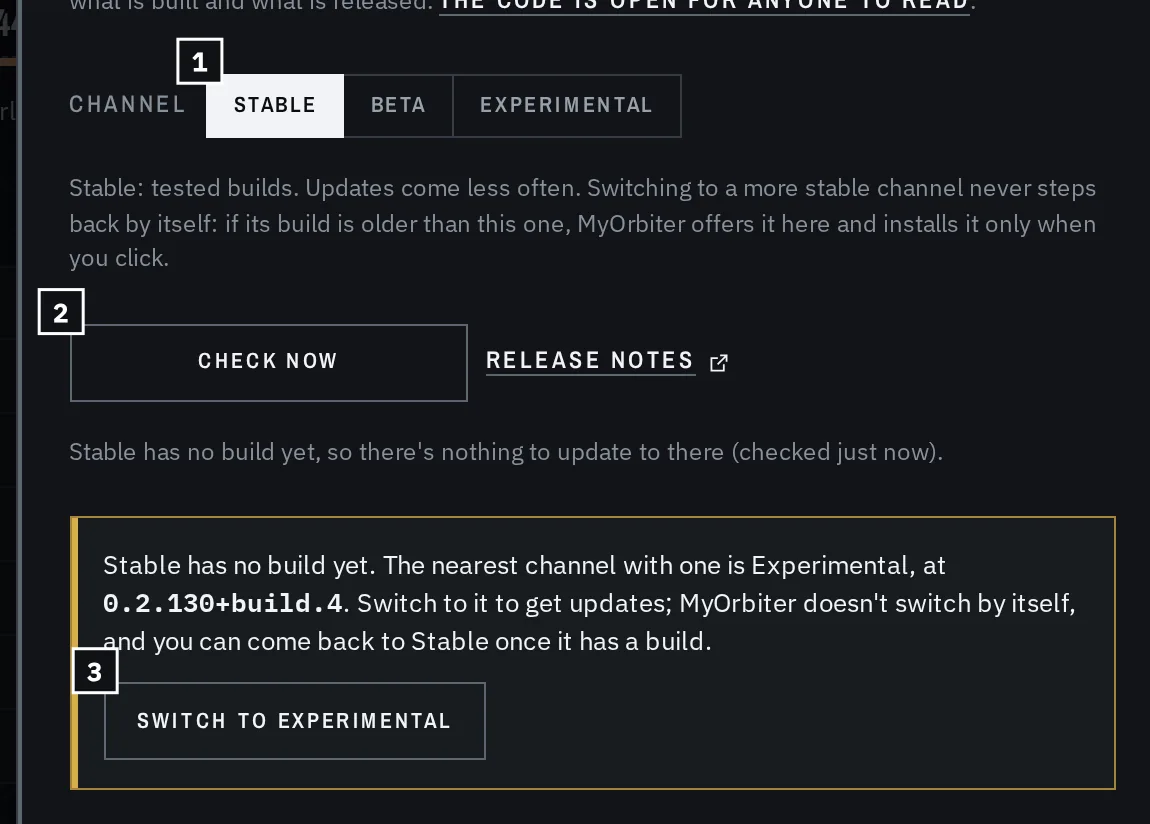
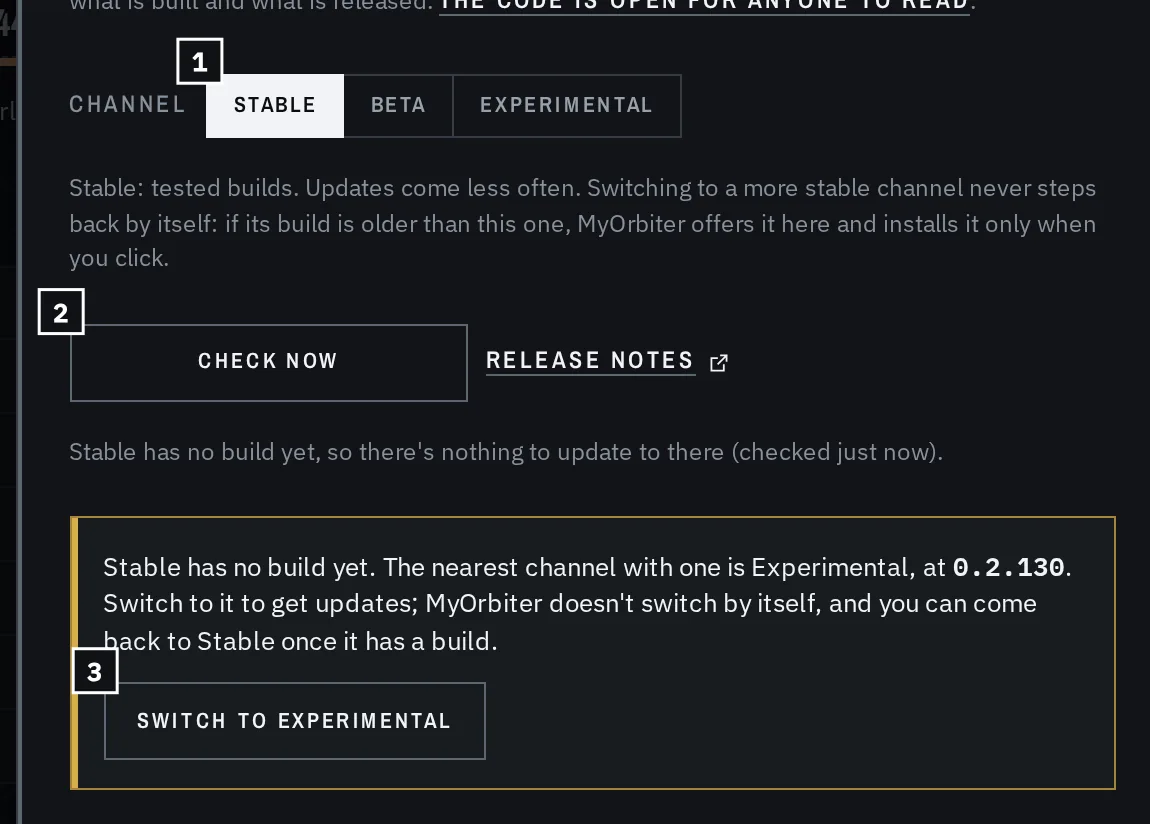
Keep a damaged settings file's channel; count the first start's waits from its page
From a review of the branch:

- A settings file that is damaged and moved aside no longer counts as a new
  install, so it can't move the player to their build's channel. The desktop
  app now says whether there was no file at all (`fresh`).
- A channel picked in Settings is the player's choice (`picked`), even the one
  already shown, so a new install's channel never settles over it.
- The first start's waits count from when its setup page comes up, not from
  MyOrbiter's start: time on the first question isn't TennoScope's.
- The read's wait counts from when the player is first seen signed in; a read
  MyOrbiter is still picking up says "loading it", and "couldn't load it" only
  past the limit. The start step's reason no longer says MyOrbiter started
  TennoScope (it may be set not to).
- The log's home folder is written as ~ in a file address too.

Changed region(s): [[0.0913, 0.6675, 0.9435, 0.7888]]

diff --git a/src/lib/core/firstStart.ts b/src/lib/core/firstStart.ts
@@ -119,7 +119,7 @@ export function firstStart(s: Signs): StepState {
   if (!st.running && !st.binary) return { step: "start", stage: "TennoScope wasn't found", waitingFor: null, stuck: true, reason: "MyOrbiter couldn't find TennoScope's program", todo: "Choose it in Settings, TennoScope, Program, or finish later and use MyOrbiter without your inventory.", actions: ["settings"], limit: null };
   if (!st.running) {
     const stuck = waited(s, s.since, LIMITS.start) || !!s.tsError;
-    return { step: "start", stage: stuck ? "TennoScope didn't start" : "Starting TennoScope", waitingFor: "TennoScope to start", stuck, reason: stuck ? (s.tsError ?? `it wasn't running ${LIMITS.start / 1000} s after MyOrbiter started it`) : null, todo: "Try again; if it keeps failing, its log (Settings, Logs) says why.", actions: ["retry", "settings"], limit: { since: s.since, ms: LIMITS.start } };
+    return { step: "start", stage: stuck ? "TennoScope didn't start" : "Starting TennoScope", waitingFor: "TennoScope to start", stuck, reason: stuck ? (s.tsError ?? `it still wasn't running after ${LIMITS.start / 1000} s`) : null, todo: "Try again; if it keeps failing, its log (Settings, Logs) says why.", actions: ["retry", "settings"], limit: { since: s.since, ms: LIMITS.start } };
   }
   const r = st.report;
   if (!r) {
@@ -151,11 +151,12 @@ export function firstStart(s: Signs): StepState {
   }
 
   // 4. The inventory read, and MyOrbiter picking it up.
-  const from = s.signedInSince ?? s.gameSince;
+  // From when the player was first seen signed in (App.svelte notes it as this step comes up).
+  const from = s.signedInSince ?? s.now;
   const read = r.mastery_rank != null || (r.health.game_reader?.state === "ready" && /synchroni[sz]ed/i.test(r.health.game_reader.message));
   const base = { step: "inventory" as const, limit: { since: from ?? s.since, ms: LIMITS.read } };
   if (trouble && refused(trouble.message)) return { ...base, stage: "Signed in, but the system won't let TennoScope read the game", waitingFor: null, stuck: true, reason: trouble.message, todo: s.ptraceScope ? "This system only lets a program read another one's memory if it started it. To allow it until you restart, run in a terminal: sudo sysctl kernel.yama.ptrace_scope=0. Then Try again." : "Check that TennoScope runs as the same user as the game, then Try again.", actions: ["retry"] };
-  if (read && s.pickup.error) return { ...base, stage: "Signed in, read by TennoScope, but MyOrbiter couldn't load it", waitingFor: "MyOrbiter to load what TennoScope read", stuck: waited(s, from, LIMITS.read), reason: s.pickup.error, todo: "Try again; if it stays, Report a bug: MyOrbiter's log says what was missing.", actions: ["retry"] };
+  if (read && s.pickup.error) return { ...base, stage: waited(s, from, LIMITS.read) ? "Signed in, read by TennoScope, but MyOrbiter couldn't load it" : "Signed in, read by TennoScope: loading it", waitingFor: "MyOrbiter to load what TennoScope read", stuck: waited(s, from, LIMITS.read), reason: s.pickup.error, todo: "Try again; if it stays, Report a bug: MyOrbiter's log says what was missing.", actions: ["retry"] };
   const stuck = waited(s, from, LIMITS.read) || (!!trouble && trouble.failed);
   const why = trouble ? `TennoScope: ${trouble.message}` : r.health.catalog?.state === "failed" ? `TennoScope has no item data: ${r.health.catalog.message}` : read ? "TennoScope read it, but MyOrbiter found nothing to load" : "TennoScope hasn't read it, and doesn't say why";
   return { ...base, stage: stuck ? "Signed in, but no inventory yet" : "Signed in: reading your inventory", waitingFor: "TennoScope to read your inventory", stuck, reason: stuck ? why : null, todo: stuck ? "Try again, and MyOrbiter asks TennoScope to read now." : "TennoScope reads it in a moment; this page turns into your collection by itself.", actions: ["retry"] };

diff --git a/src/lib/backend.ts b/src/lib/backend.ts
@@ -870,16 +870,19 @@ function adviceOf(raw: unknown, base: AdviceSettings): AdviceSettings {
 
 export async function loadSettings(): Promise<Settings> {
   let raw: Partial<Settings> | null = null;
+  /** No settings file at all: a new install. */
+  let fresh = false;
   if (inTauri) {
     // A file briefly held by something else (an antivirus, a backup): tried a few times. Still
     // unreadable, MyOrbiter runs on defaults but never saves over the file (see flushSettings).
     for (let i = 0; ; i++) {
       try {
-        const loaded = await invoke<{ settings: Partial<Settings> | null; page: number }>("load_settings");
+        const loaded = await invoke<{ settings: Partial<Settings> | null; page: number; fresh?: boolean }>("load_settings");
         // A reply without a page token can't be saved to: taken as unreadable, so nothing is
         // saved over the file.
         if (typeof loaded?.page !== "number" || !("settings" in loaded)) throw new Error("load_settings gave an unexpected reply");
         raw = loaded.settings;
+        fresh = loaded.fresh === true;
         savePage = loaded.page;
         break;
       } catch (e) {
@@ -892,7 +895,9 @@ export async function loadSettings(): Promise<Settings> {
     }
   } else {
     try {
-      raw = JSON.parse(localStorage.getItem("orbiter-settings") ?? "null");
+      const saved = localStorage.getItem("orbiter-settings");
+      fresh = saved == null;
+      raw = JSON.parse(saved ?? "null");
     } catch {
       raw = null;
     }
@@ -976,9 +981,10 @@ export async function loadSettings(): Promise<Settings> {
     buildsFromNox: raw?.buildsFromNox !== false,
     // Off unless switched on.
     recordTimings: raw?.recordTimings === true,
-    // Settings from before updates: Stable, never checked. A new install (no settings at all, and
-    // none that couldn't be read): the channel its build came from, once that's known (updates.svelte.ts).
-    updates: raw ? sanitizeUpdates(raw.updates) : loadFailed == null ? newInstallUpdates() : defaultUpdates(),
+    // Settings from before updates: Stable, never checked. A new install (no settings file at all;
+    // not a damaged one moved aside, nor one that couldn't be read): the channel its build came
+    // from, once that's known (updates.svelte.ts).
+    updates: raw ? sanitizeUpdates(raw.updates) : fresh ? newInstallUpdates() : defaultUpdates(),
   };
 }
 
@@ -1224,8 +1230,8 @@ const demoEmptyChannel = () => {
   }
 };
 const EMPTY_DEMO = {
-  info: { version: "0.2.130+build.4", install: { how: "appImage", path: "/opt/MyOrbiter.AppImage" } } as UpdateInfo,
-  check: (c: Channel): UpdateCheck => (c === "experimental" ? { state: "current", version: "0.2.130+build.4" } : { state: "empty", system: false }),
+  info: { version: "0.2.130", install: { how: "appImage", path: "/opt/MyOrbiter.AppImage" } } as UpdateInfo,
+  check: (c: Channel): UpdateCheck => (c === "experimental" ? { state: "current", version: "0.2.130" } : { state: "empty", system: false }),
 };
 
 /** Browser dev mode: public/dev-tennoscope.json fakes a running TennoScope. */

diff --git a/tests/firstStart.test.ts b/tests/firstStart.test.ts
@@ -44,7 +44,7 @@ test("a TennoScope that never starts: waiting, then stuck at the limit with why,
   const t = firstStart(signs({ status: off, runningSince: null, now: T0 + LIMITS.start }));
   assert.equal(t.stuck, true);
   assert.equal(t.stage, "TennoScope didn't start");
-  assert.match(t.reason ?? "", /wasn't running 30 s after/);
+  assert.match(t.reason ?? "", /wasn't running after 30 s/);
   assert.ok(t.actions.includes("retry"));
   // Its own failure, said at once.
   assert.equal(firstStart(signs({ status: off, runningSince: null, tsError: "Couldn't start /opt/tennoscope: no such file" })).stuck, true);
@@ -133,6 +133,9 @@ test("the system refusing the read: said plainly, with what to do", () => {
 test("read by TennoScope but not loaded by MyOrbiter: the reason is MyOrbiter's, shown and logged", () => {
   const err = "not found at ~/.local/share/io.github.deftera186.tennoscope/catalog/relic-generation.json: TennoScope hasn't written it yet";
   const s = signs({ status: full({ game_running: true, mastery_rank: 22, reader: ["ready", "Inventory synchronized from warframe-memory"] }), log: { found: true, signedIn: true }, gameSince: T0, signedInSince: T0, pickup: { error: err, entries: 0, observedAt: null } });
+  // While MyOrbiter is still picking it up, it says so, not a failure.
+  assert.equal(firstStart(s).stage, "Signed in, read by TennoScope: loading it");
+  assert.equal(firstStart(s).stuck, false);
   const x = firstStart({ ...s, now: T0 + LIMITS.read });
   assert.equal(x.stage, "Signed in, read by TennoScope, but MyOrbiter couldn't load it");
   assert.equal(x.reason, err);
@@ -158,7 +161,9 @@ test("every step has a way on without TennoScope ever answering", () => {
     signs({ status: { supported: true, running: true, binary: "x", report: report() }, asked: { mode: "full", at: T0 } }),
     signs({ status: full() }),
     signs({ status: full({ game_running: true }), gameSince: T0 }),
-    signs({ status: full({ game_running: true }), gameSince: T0, log: { found: true, signedIn: true } }),
+    // App.svelte notes when the player is first seen signed in, as the inventory step comes up.
+    signs({ status: full({ game_running: true }), gameSince: T0, signedInSince: T0, log: { found: true, signedIn: true } }),
+    signs({ status: full({ game_running: true, mastery_rank: 22 }), gameSince: T0, signedInSince: T0, log: { found: true, signedIn: true } }),
   ];
   for (const c of cases) {
     const x = firstStart({ ...c, now: T0 + 60 * 60_000 });

diff --git a/tests/updates.test.ts b/tests/updates.test.ts
@@ -165,7 +165,13 @@ test("a new install starts on the channel its build was published to; saved sett
 
 test("a new install, as the settings load it: only when nothing was saved", () => {
   const src = readFileSync(new URL("../src/lib/backend.ts", import.meta.url), "utf8");
-  assert.match(src, /updates: raw \? sanitizeUpdates\(raw\.updates\) : loadFailed == null \? newInstallUpdates\(\) : defaultUpdates\(\)/, "saved settings are sanitized as before; unreadable ones aren't a new install");
+  assert.match(src, /updates: raw \? sanitizeUpdates\(raw\.updates\) : fresh \? newInstallUpdates\(\) : defaultUpdates\(\)/, "saved settings are sanitized as before; only no file at all is a new install");
+  // No file at all, said by the desktop app (not a damaged file moved aside), or nothing in the browser's storage.
+  assert.match(src, /fresh = loaded\.fresh === true;/);
+  assert.match(src, /fresh = saved == null;/);
+  const rs = readFileSync(new URL("../src-tauri/src/lib.rs", import.meta.url), "utf8");
+  assert.match(rs, /NotFound => return Ok\(\(Value::Null, true\)\)/, "a missing file is fresh");
+  assert.match(rs, /Value::Null\n\s*\}\n\s*\}, false\)\)/, "a damaged file moved aside isn't");
 });
 
 test("an empty channel is said plainly, never as a failure, and the nearest channel comes first", () => {

diff --git a/src/App.svelte b/src/App.svelte
@@ -477,6 +477,18 @@
   let tsRunningSince = $state<number | null>(null);
   let gameSince = $state<number | null>(null);
   let signedInSince = $state<number | null>(null);
+  // The waits count from when the setup page comes up, not from MyOrbiter's start: time spent on
+  // the first start's question (or reading anything before) isn't TennoScope's.
+  let setupWasUp = false;
+  $effect(() => {
+    const up = setupShown && !firstRun;
+    if (up && !setupWasUp) {
+      setupSince = setupNow = Date.now();
+      tsRunningSince = ts.running ? setupSince : null;
+      gameSince = gameSince == null ? null : setupSince;
+    }
+    setupWasUp = up;
+  });
   /** The last pick-up of TennoScope's data: its error, and what it took in. */
   const pickup = $derived({ error: model || !error ? null : error.replace(/^Error: /, ""), entries: bundle?.inventory.length ?? 0, observedAt: bundle?.observed_at ?? null });
   const setupSigns = $derived.by((): Signs => ({

diff --git a/tests/updatesStore.test.ts b/tests/updatesStore.test.ts
@@ -330,3 +330,15 @@ test("saved settings keep their channel when the app says which build it is", as
   await begin();
   assert.equal(settings.channel, "stable");
 });
+
+test("a channel the player picks on a new install stays, even the one already shown, before the app says which build", async (t) => {
+  const { u, settings } = await setup(t, []);
+  // A CI build: left alone, a new install would settle on Experimental.
+  updater.info = async () => ({ version: "0.2.127", install: { how: "appImage", path: "/home/user/Apps/myorbiter.AppImage" } });
+  Object.assign(settings, { channel: "stable", picked: false });
+  u.start(() => settings);
+  u.setChannel("stable");
+  await micro();
+  assert.equal(settings.picked, true);
+  assert.equal(settings.channel, "stable", "the build's channel doesn't settle over the player's pick");
+});

diff --git a/src/lib/updates.svelte.ts b/src/lib/updates.svelte.ts
@@ -239,7 +239,11 @@ export class Updates {
   /** A channel picked in Settings: what it offers is asked at once (a more stable one may be behind). */
   setChannel(c: Channel) {
     const u = this.get?.();
-    if (!u || u.channel === c) return;
+    if (!u) return;
+    // The player's own choice: a new install's channel never settles over it, even when it is
+    // the channel already shown.
+    u.picked = true;
+    if (u.channel === c) return;
     u.channel = c;
     this.result = null;
     this.checked = null;

diff --git a/src/lib/core/standIn.ts b/src/lib/core/standIn.ts
@@ -18,7 +18,7 @@ export type StandIn =
   | "signin"
   /** Full mode, signed in, reading the inventory (and never done). */
   | "reading"
-  /** Read the inventory, and its data folder misses a file MyOrbiter used to need (the friend's case). */
+  /** Read the inventory, and MyOrbiter can't load it: its data folder misses a file. */
   | "unloaded";
 
 export const STAND_INS: readonly StandIn[] = ["silent", "refuses", "signin", "reading", "unloaded"];

diff --git a/src-tauri/src/lib.rs b/src-tauri/src/lib.rs
@@ -957,6 +957,9 @@ fn settings_path(app: &tauri::AppHandle) -> Result<PathBuf, String> {
 struct LoadedSettings {
     settings: Value,
     page: u64,
+    /// There was no settings file: a new install. False for a damaged file moved aside, whose
+    /// player had settings (their update channel among them) and isn't new.
+    fresh: bool,
 }
 
 /// One token per process: the window's page calls this once as it starts (`loadSettings` in
@@ -968,19 +971,20 @@ fn load_settings(app: tauri::AppHandle) -> Result<LoadedSettings, String> {
     // Read under the save lock: a save from the page before is either on disk by now or dropped.
     let mut gate = SETTINGS_GATE.lock().unwrap_or_else(|e| e.into_inner());
     let page = gate.page_loaded();
-    let settings = read_settings(&path)?;
-    Ok(LoadedSettings { settings, page })
+    let (settings, fresh) = read_settings(&path)?;
+    Ok(LoadedSettings { settings, page, fresh })
 }
 
-fn read_settings(path: &Path) -> Result<Value, String> {
+/// The settings, and whether there was no file at all.
+fn read_settings(path: &Path) -> Result<(Value, bool), String> {
     // No file yet: a first run. Any other failure (a file held by an antivirus or a backup, no
     // permission) is an error, so the page doesn't start from defaults and save them over it.
     let bytes = match fs::read(path) {
         Ok(b) => b,
-        Err(e) if e.kind() == std::io::ErrorKind::NotFound => return Ok(Value::Null),
+        Err(e) if e.kind() == std::io::ErrorKind::NotFound => return Ok((Value::Null, true)),
         Err(e) => return Err(format!("couldn't read {}: {e}", path.display())),
     };
-    Ok(match serde_json::from_slice(&bytes) {
+    Ok((match serde_json::from_slice(&bytes) {
         Ok(v) => v,
         Err(_) => {
             // Keep a damaged file (floors, tiers...) instead of letting the defaults overwrite it.
@@ -991,7 +995,7 @@ fn read_settings(path: &Path) -> Result<Value, String> {
             rename_replacing(path, &aside).map_err(|e| format!("{} is damaged and couldn't be moved aside: {e}", path.display()))?;
             Value::Null
         }
-    })
+    }, false))
 }
 
 #[tauri::command(async)]

diff --git a/src-tauri/src/applog.rs b/src-tauri/src/applog.rs
@@ -257,6 +257,9 @@ fn replace_folder(s: &str, folder: &str, any_case: bool) -> String {
         let ends = next.map_or(true, |c| !(c.is_alphanumeric() || matches!(c, '-' | '_' | '.' | '~' | '$')));
         // Not the middle of a longer path either (`/srv/home/name`, `/home/name` inside `/x/home/name`).
         let starts = i == 0 || !s[..i].ends_with(|c: char| c.is_alphanumeric() || matches!(c, '/' | '\\' | '-' | '_' | '.'));
+        // A file address names the folder too: file:///home/name/…, file:///C:/Users/name/….
+        let before = s[..i].to_ascii_lowercase();
+        let starts = starts || before.ends_with("file://") || before.ends_with("file:///");
         out.push_str(&s[from..i]);
         out.push_str(if ends && starts { "~" } else { &s[i..end] });
         from = end;
@@ -394,6 +397,9 @@ mod tests {
         assert_eq!(tilde("/home/examplehomes/a", home), "/home/examplehomes/a");
         assert_eq!(tilde("/home/examplehome.old/a", home), "/home/examplehome.old/a");
         assert_eq!(tilde("/srv/home/examplehome/a", home), "/srv/home/examplehome/a");
+        // In a file address too.
+        assert_eq!(tilde("opened file:///home/examplehome/x.html", home), "opened file://~/x.html");
+        assert_eq!(tilde("opened FILE:///C:/Users/Example Player/x.html", r"C:\Users\Example Player"), "opened FILE:///~/x.html");
         assert_eq!(tilde("/HOME/EXAMPLEHOME/a", home), "/HOME/EXAMPLEHOME/a", "Linux paths match in their case only");
         // As Wine and Proton write the same folder, also inside JSON.
         assert_eq!(tilde(r"log at Z:\home\examplehome\Games\EE.log", home), r"log at ~\Games\EE.log");

diff --git a/docs/privacy.md b/docs/privacy.md
@@ -255,7 +255,8 @@ experimental), with no version, system or id. When the channel you picked has no
 check also reads the nearest other channel's `latest.json` (the next one if that one is empty too),
 the same way, so Settings can name a channel that has one; it switches nothing. A new install starts
 on the channel its build was published to (Experimental, where every build lands first); an install
-that has saved settings keeps its channel. An update downloads only when you click, from where
+that has saved settings keeps its channel, even when that file turns out damaged and is moved
+aside (it then starts on Stable, as installs did before channels). An update downloads only when you click, from where
 that `latest.json` points: the build's release on github.com, which hands the download to GitHub's
 file storage (`release-assets.githubusercontent.com` or `objects.githubusercontent.com`), or
 gitlab.com's package registry, which may hand it to a file storage of its choosing that wasn't
